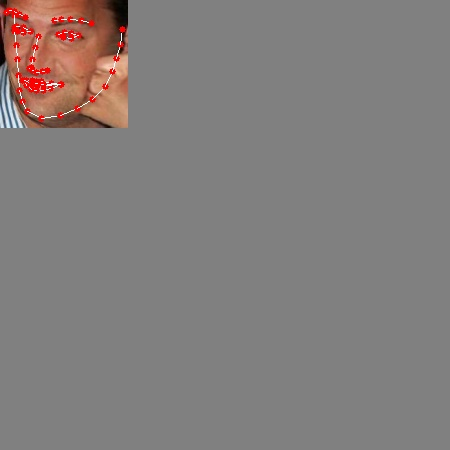
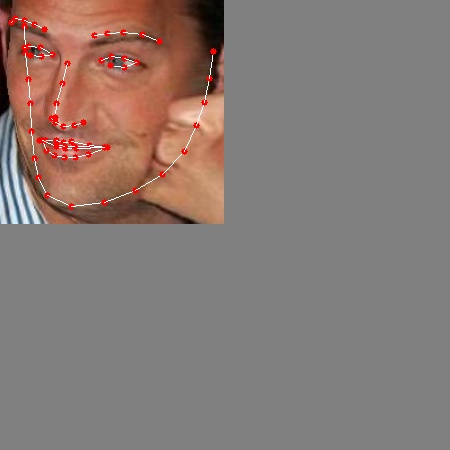
transition

Changed region(s): [[0.0, 0.0, 0.4978, 0.4978]]

diff --git a/utils/data_utils/data_preparing_utils.py b/utils/data_utils/data_preparing_utils.py
@@ -24,14 +24,14 @@ def get_labels(dictionary):
     print('Start Parsing train files')
     for idx in dictionary['train']:
         label = {}
-        label['pose'] = get_pose_from_mat(path_to_dataset+idx)
+        label['Pose'] = pose_to_3DMM(get_pose_from_mat(path_to_dataset+idx))
         label['Exp_Para'] = get_Exp_Para_from_mat(path_to_dataset+idx)
         label['Shape_Para'] = get_Shape_Para_from_mat(path_to_dataset+idx)
         labels[idx] = label
     print('Start Parsing valid files')
     for idx in dictionary['valid']:
         label = {}
-        label['pose'] = get_pose_from_mat(path_to_dataset+idx)
+        label['Pose'] = pose_to_3DMM(get_pose_from_mat(path_to_dataset+idx))
         label['Exp_Para'] = get_Exp_Para_from_mat(path_to_dataset+idx)
         label['Shape_Para'] = get_Shape_Para_from_mat(path_to_dataset+idx)
         labels[idx] = label
@@ -66,20 +66,19 @@ def create_labels_json(data, dataset=['300W_LP']):
     IDs = get_IDs(data, dataset)
     dictionary_to_json(IDs, path_to_dataset+'IDs_'+dataset[0])
     labels = get_labels(IDs)
-    dictionary_to_json(labels, path_to_dataset+'labels_'+dataset[0])
     data = pd.DataFrame(labels).transpose()
-    data = data.apply(pose_to_param3DMM, axis=1)
-    param3DMM_mean, param3DMM_std = get_mean_std(data, 'param3DMM')
+    Pose_mean, Pose_std = get_mean_std(data, 'Pose')
     Shape_Para_mean, Shape_Para_std = get_mean_std(data, 'Shape_Para')
     Exp_Para_mean, Exp_Para_std = get_mean_std(data, 'Exp_Para')
-    pose_mean, pose_std = get_mean_std(data, 'pose')
-    param_62_mean = np.concatenate((param3DMM_mean, Shape_Para_mean, Exp_Para_mean), axis=0)
-    param_62_std = np.concatenate((param3DMM_std, Shape_Para_std, Exp_Para_std), axis=0)
+    param_62_mean = np.concatenate((Pose_mean, Shape_Para_mean, Exp_Para_mean), axis=0)
+    param_62_std = np.concatenate((Pose_std, Shape_Para_std, Exp_Para_std), axis=0)
     dictionary = {'param_mean':param_62_mean, 'param_std':param_62_std}
     pickle.dump(dictionary, open(path_to_dataset+"param_"+dataset[0]+".pkl", "wb"))
+    # labels = normalize_dicts(labels)
+    dictionary_to_json(labels, path_to_dataset+'labels_'+dataset[0])
 
 def pose_to_param3DMM(row):
-    row['param3DMM'] = pose_to_3DMM(row['pose'])
+    row['param3DMM'] = pose_to_3DMM(row['Pose'])
     return row
 
 def get_mean_std(data, feature):

diff --git a/input_pipeline.py b/input_pipeline.py
@@ -6,18 +6,18 @@ from utils.loading_data import loading_generators
 import cv2
 
 set_GPU()
-IMG_H = 128
+IMG_H = 224
 input_shape = (IMG_H, IMG_H, 3)
 
-test = '300w'
+test = '300W'
 if test == 'AFLW':
   training_data_generator, validation_data_generator = loading_generators(dataset='AFLW',\
         input_shape=input_shape, batch_size=32, shuffle=True)
   list_ids = ["AFLW2000-3D/AFLW2000/image00002", "AFLW2000-3D/AFLW2000/image00004",\
     "AFLW2000-3D/AFLW2000/image00006", "AFLW2000-3D/AFLW2000/image00008",
     "AFLW2000-3D/AFLW2000/image00010"]
-elif test == '300w':
-  training_data_generator, validation_data_generator = loading_generators(dataset='300w',\
+elif test == '300W':
+  training_data_generator, validation_data_generator = loading_generators(dataset='300W',\
         input_shape=input_shape, batch_size=32, shuffle=True)
   list_ids = ["300W-LP/300W_LP/AFW/AFW_134212_1_2", "300W-LP/300W_LP/HELEN_Flip/HELEN_1269874180_1_0",\
       "300W-LP/300W_LP/AFW/AFW_4512714865_1_3", "300W-LP/300W_LP/LFPW_Flip/LFPW_image_train_0737_13",

diff --git a/preparing_DDFA_data.py b/preparing_DDFA_data.py
@@ -72,8 +72,8 @@ def to_dictionary(row):
     dir = 'train_aug_120x120/'
     label = {}
     label['pose'] = row['pose']
-    label['Exp_Para'] = row['Exp_Para']
     label['Shape_Para'] = row['Shape_Para']
+    label['Exp_Para'] = row['Exp_Para']
     dictionary[dir+row['image_ID']] = label
     
 
@@ -101,7 +101,7 @@ img_id = 'train_aug_120x120/' + data.iloc[i]['image_ID']
 img_path = join(dataset_path, img_id)
 
 image = cv2.imread(img_path)
-poses = np.concatenate((dictionary[img_id]['pose'],\
+poses = np.concatenate((dictionary[img_id]['Pose'],\
      dictionary[img_id]['Shape_Para'], dictionary[img_id]['Exp_Para']), axis=-1)
 image = plot_pose(image, poses)
 cv2.imwrite('try.jpg', image)

diff --git a/data_generator/labels_preprocessing.py b/data_generator/labels_preprocessing.py
@@ -3,8 +3,7 @@ from numpy import sin, cos, arctan2, arcsin
 import pickle
 
 def label_loader(image_id, labels):
-    pose = np.array(labels[image_id]['pose'])
-    pose_3DMM = pose_to_3DMM(pose)
+    pose_3DMM = np.array(labels[image_id]['Pose'])
     alpha_shp = np.ravel(np.array(labels[image_id]['Shape_Para']).T)
     alpha_exp = np.ravel(np.array(labels[image_id]['Exp_Para']).T)
     parameters_3DMM = np.concatenate((pose_3DMM, alpha_shp, alpha_exp), axis=0)

diff --git a/utils/loading_data.py b/utils/loading_data.py
@@ -5,7 +5,7 @@ def loading_dictionaries(dataset='300w'):
     base_dir_ids = "../../Datasets/300W_AFLW/IDs_"
     base_dir_labels = "../../Datasets/300W_AFLW/labels_"
     json_file_ids = json_file_labels = 'None'
-    if dataset=='300w':
+    if dataset=='300W':
         json_file_ids = base_dir_ids + '300W_LP.json'
         json_file_labels = base_dir_labels + '300W_LP.json'
     elif dataset=='AFLW':

diff --git a/preparing_300WP_AFLW.py b/preparing_300WP_AFLW.py
@@ -4,3 +4,4 @@ import pandas as pd
 data = pd.read_csv("../../Datasets/300W_AFLW/train_test_split_ALL.csv")
 
 create_labels_json(data, dataset=['300W_LP'])
+create_labels_json(data, dataset=['AFLW2000'])
